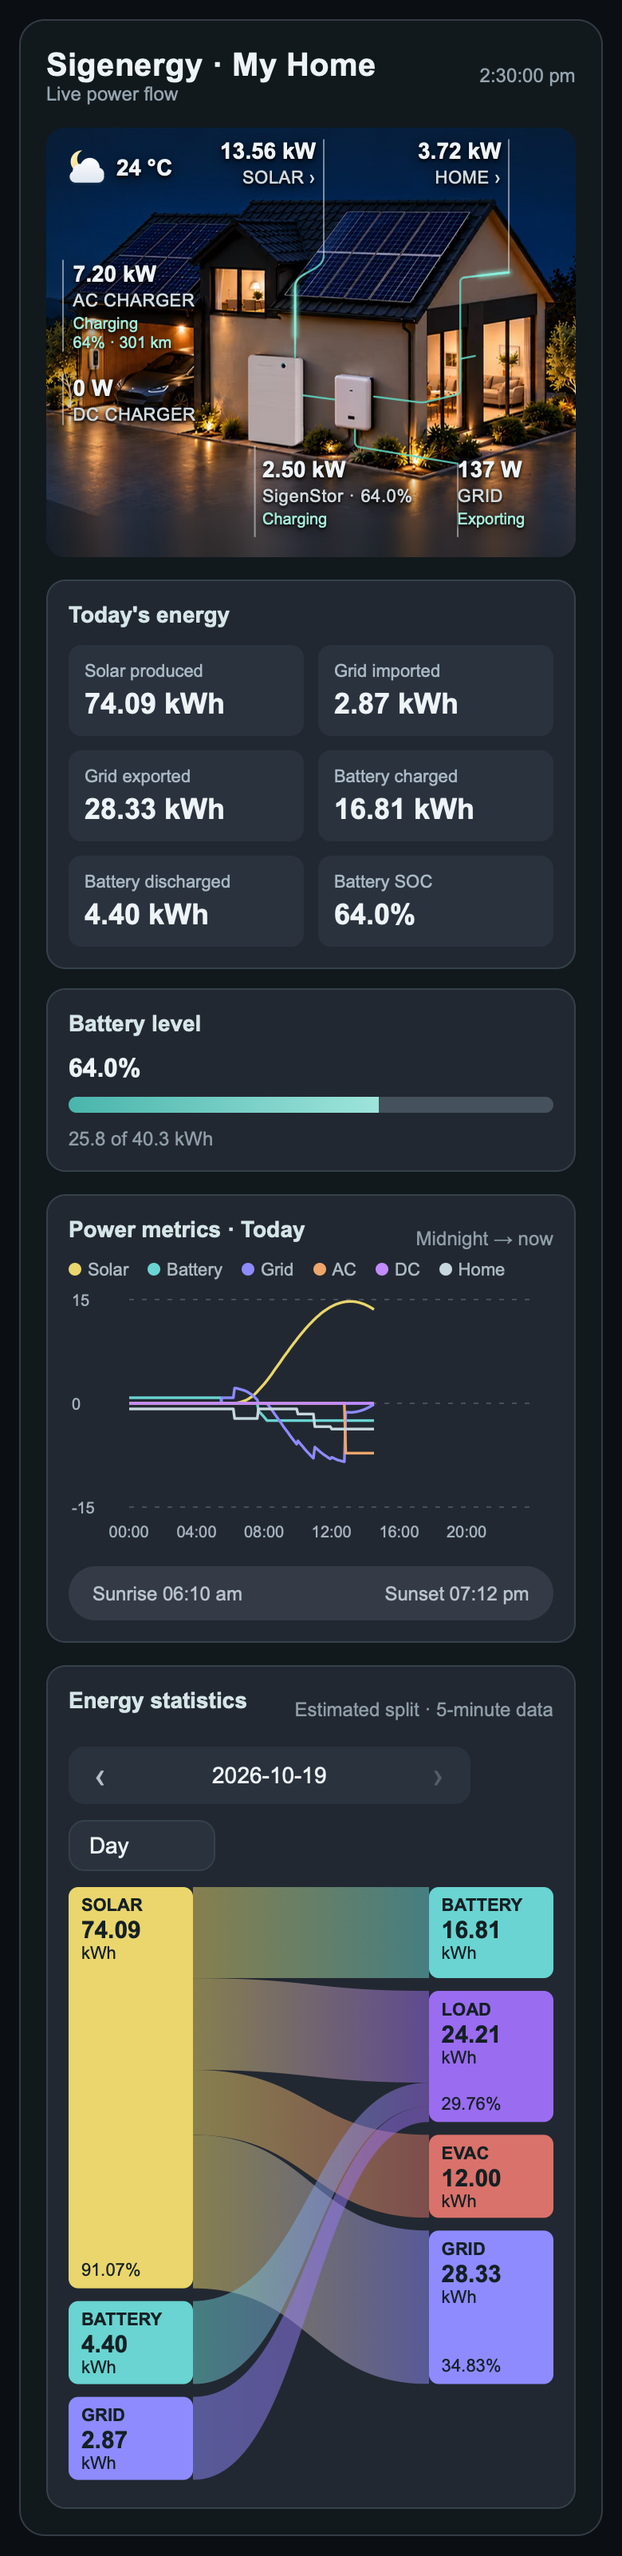
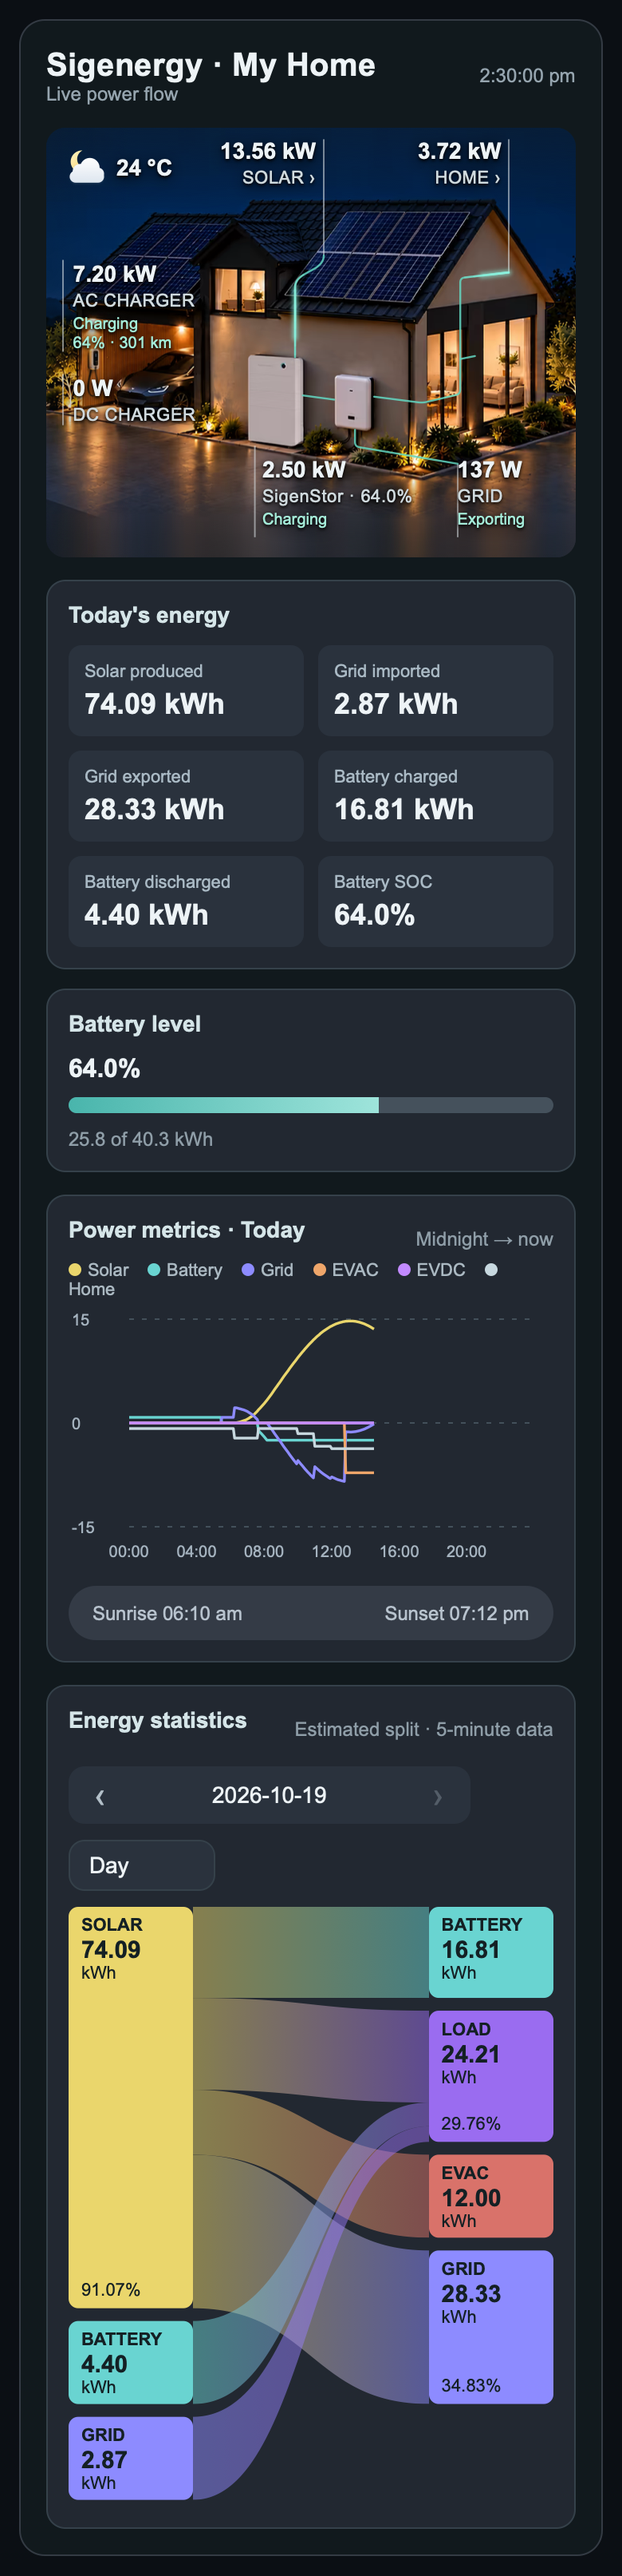
Name the chargers EVAC and EVDC in the power metrics chart
The Power metrics chart's legend and tooltip said AC and DC; they now say
EVAC and EVDC, as the Energy statistics panel does. The README
screenshots are regenerated to match.

diff --git a/sigenergy-flow-card.js b/sigenergy-flow-card.js
@@ -176,8 +176,8 @@ const CHART_SERIES = [
     { key: 'battery_power', color: 'var(--c-battery)', name: 'Battery', negate: true },
     { key: 'grid_import_power', color: 'var(--c-grid)', name: 'Grid' },
     { key: 'grid_export_power', color: 'var(--c-grid)', name: 'Grid', negate: true },
-    { key: 'ac_charger_power', color: 'var(--c-ac)', name: 'AC', optional: true, negate: true },
-    { key: 'dc_charger_power', color: 'var(--c-dc)', name: 'DC', optional: true, negate: true },
+    { key: 'ac_charger_power', color: 'var(--c-ac)', name: 'EVAC', optional: true, negate: true },
+    { key: 'dc_charger_power', color: 'var(--c-dc)', name: 'EVDC', optional: true, negate: true },
     { key: 'home_power', color: 'var(--c-home)', name: 'Home', negate: true },
 ];
 const PV_COLORS = [0, 1, 2, 3, 4, 5].map(i => `var(--pv${i})`);
@@ -1159,8 +1159,8 @@ class SigenergyFlowCard extends HTMLElement {
         this._id('acNode').hidden = !hasAc;
         this._id('dcNode').hidden = !hasDc;
         this._id('chargerArt').setAttribute('display', hasAc || hasDc ? 'inline' : 'none');
-        this._id('legendAC').hidden = !hasAc;
-        this._id('legendDC').hidden = !hasDc;
+        this._id('legendEVAC').hidden = !hasAc;
+        this._id('legendEVDC').hidden = !hasDc;
         const grid = imp !== null && imp > 0 ? imp : exp !== null && exp > 0 ? -exp : imp ?? (exp === null ? null : -exp);
         this._text('pv', this._power(pv));
         this._text('home', this._power(home));
@@ -1490,7 +1490,7 @@ class SigenergyFlowCard extends HTMLElement {
         const notes = {
             Battery: v => v > .005 ? 'discharging' : v < -.005 ? 'charging' : '',
             Grid: v => v > .005 ? 'import' : v < -.005 ? 'export' : '',
-            DC: v => v > .005 ? 'discharging' : v < -.005 ? 'charging' : '',
+            EVDC: v => v > .005 ? 'discharging' : v < -.005 ? 'charging' : '',
         };
         const series = this._series(data, specs.map(s => s.id)).map((points, i) => {
             // Scale W/MW to kW, flip the consumers' sign, and apply battery_power_invert to the battery series.

diff --git a/CHANGELOG.md b/CHANGELOG.md
@@ -2,6 +2,10 @@
 
 Each release is tagged `vN` on GitHub; HACS offers the newest release as the update.
 
+## v59
+
+- The Power metrics chart names the chargers EVAC and EVDC, as the Energy statistics do, instead of AC and DC.
+
 ## v58
 
 - The Power metrics chart plots power as Sigenergy's app does: what is supplied to the home (solar, battery discharging, grid import, a vehicle supplying the DC charger) above zero, and what is consumed (home, battery charging, grid export, EV charging) below. The battery, home and both chargers were plotted the other way round.
